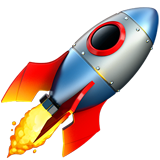
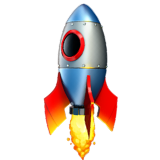
rocket rotation improvements

diff --git a/app.js b/app.js
@@ -29,6 +29,7 @@ rocket.anchor.set(0.5);
 rocket.x = 50;
 rocket.y = app.screen.height / 2;
 rocket.scale.set(0.5, 0.5);
+rocket.rotation = Math.PI / 2;
 
 /* ============= TEXT STYLE ============= */
 const style = new PIXI.TextStyle({
@@ -331,6 +332,8 @@ function moveRocket() {
     let targetY = Math.random() * app.screen.height;
     let updateInterval = 150; // Update target every 1000ms (1 second)
     let lastUpdateTime = Date.now();
+    // Variable to track the desired rotation (0 or 180 degrees)
+    let targetRotation = 0;
 
     yTicker.add(() => {
         // Current time
@@ -351,8 +354,12 @@ function moveRocket() {
             let movementSpeed = 0.05; // Adjust this value for faster or slower movement
             rocket.y += (targetY - rocket.y) * movementSpeed;
 
-            const movingUp = targetY < rocket.y;
-            rocket.scale.y = movingUp ? 0.5 : -0.5; // Flip the rocket vertically when moving up
+            // Determine the direction of movement and set the target rotation accordingly
+            targetRotation = targetY < rocket.y ? 0 : Math.PI; // 0 or 180 degrees in radians
+
+            // Gradually update the rotation for smoother flipping
+            let rotationInterpolationSpeed = 0.09; // Control the flipping speed
+            rocket.rotation += (targetRotation - rocket.rotation) * rotationInterpolationSpeed;
         } else {
             yTicker.stop(); // Stop the ticker after the duration or if the game is over
         }
